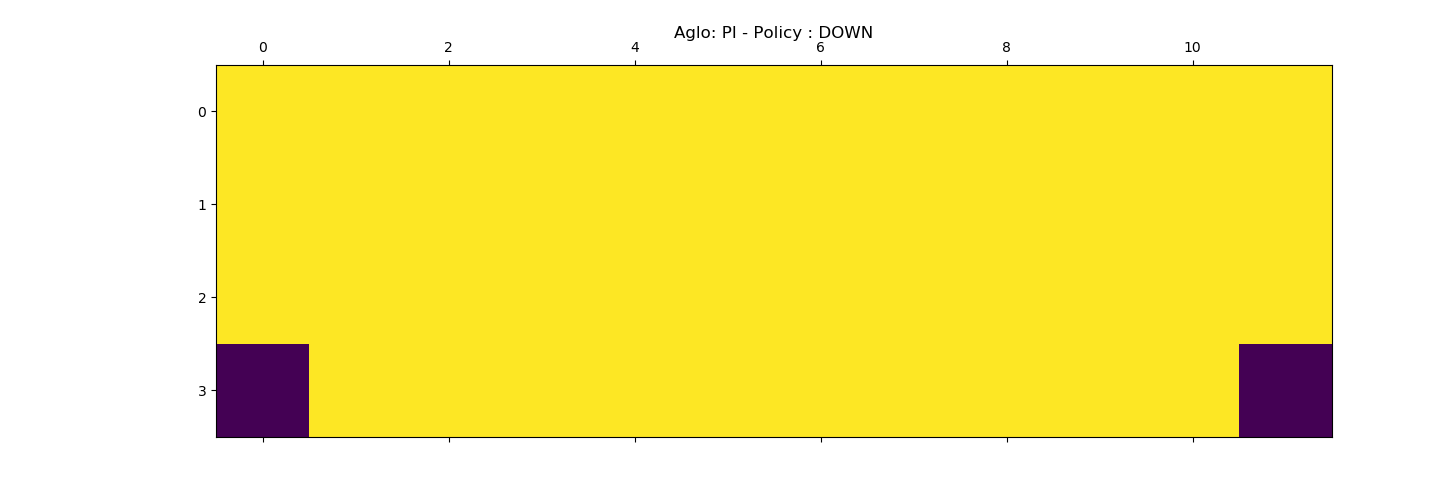
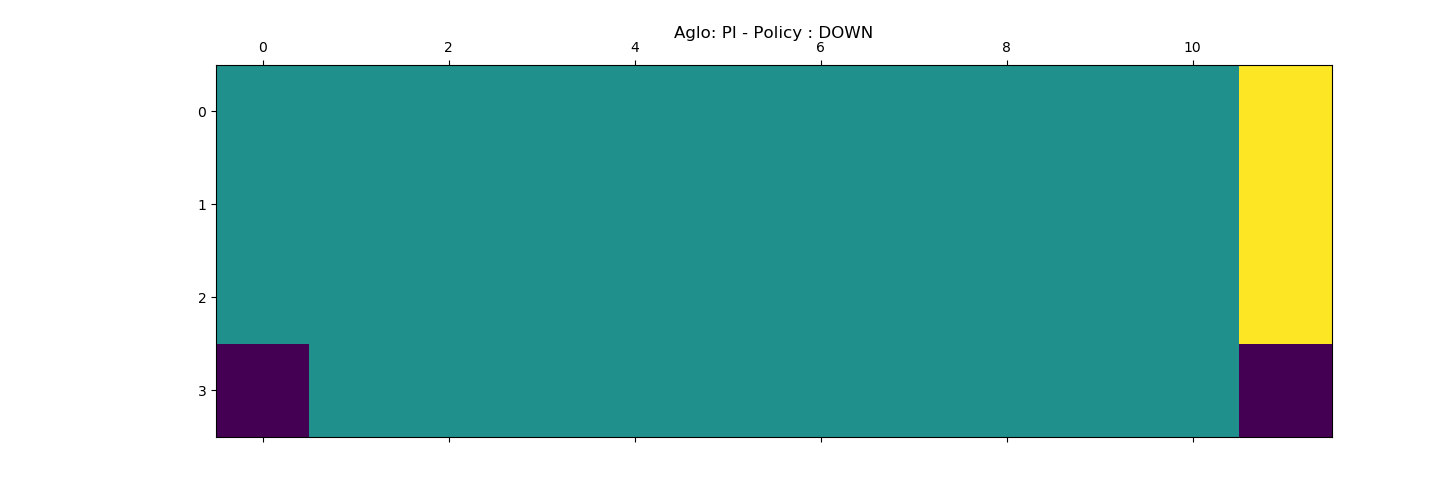
rl

diff --git a/ReinforcementLearning/rl-aic-2019-master/session_1/agents - Copie.py b/ReinforcementLearning/rl-aic-2019-master/session_1/agents - Copie.py
@@ -110,19 +110,11 @@ class ValueIteration:
         max_iterations = 10000
         eps = 1e-30
         for i in range(max_iterations):
-            prev_v = np.copy(V)
+            prev_v = (V)
             for s in range(self.mdp.env.nS):
-                Q_sa = np.zeros(self.mdp.env.nA)
-                for a in range(self.mdp.env.nA):
-                    for next_sr in self.mdp.env.P[s][a]:
-                        p, s_prime, r, last_state = next_sr
-                        if (last_state == False):
-                            Q_sa[a] += (p * (r + self.gamma * V[s_prime]))
-                        else : 
-                            Q_sa[a] += (p*r)
-                V[s] = np.max(Q_sa)
-            if (np.sum(np.fabs(prev_v - V)) <= eps):
-                print("FINISHED")
+                q_sa = [sum([p*(r + self.gamma * prev_v[s_prime]) ) for a in range(self.mdp.env.nA)] 
+                V[s] = max(q_sa)
+            if (np.sum(np.abs(prev_v - V)) <= eps):
                 return V
         return V
 
@@ -135,11 +127,8 @@ class ValueIteration:
             Q_sa = np.zeros(self.mdp.env.nA)
             for a in range(self.mdp.env.nA):
                 for next_sr in self.mdp.env.P[s][a]:
-                    p, s_prime, r, last_state = next_sr
-                    if (last_state == False):
-                        Q_sa[a] += (p * (r + self.gamma * V[s_prime]))
-                    else : 
-                        Q_sa[a] += (p*r)
+                    p, s_prime, r, _ = next_sr
+                    Q_sa[a] += (p * (r + self.gamma * V[s_prime]))
             policy[s][np.argmax(Q_sa)] = 1
         return(policy)
 
@@ -177,18 +166,13 @@ class PolicyIteration:
         max_iterations = 10000
         eps = 1e-30
         for i in range(max_iterations):
-            prev_v = np.copy(V)
+            prev_v = (V)
             for s in range(self.mdp.env.nS):
-                Q_sa = np.zeros(self.mdp.env.nA)
+                q_sa = np.zeros(self.mdp.env.nA)
                 for a in range(self.mdp.env.nA):
-                    for next_sr in self.mdp.env.P[s][a]:
-                        p, s_prime, r, last_state = next_sr
-                        if (last_state == False):
-                            Q_sa[a] += (p * (r + self.gamma * V[s_prime]))
-                        else : 
-                            Q_sa[a] += (p*r)
-                V[s] = np.max(Q_sa)
-            if (np.sum(np.fabs(prev_v - V)) <= eps):
+                    q_sa[a] = sum([p * (r + self.gamma * V[s_]) for p, s_, r, _ in  self.mdp.env.P[s][a]])
+                policy[s] = np.argmax(q_sa)
+            if (np.sum(np.abs(prev_v - V)) <= eps):
                 return np.array(V)
         return np.array(V)
    
@@ -199,15 +183,10 @@ class PolicyIteration:
         """
         policy = np.zeros([self.mdp.env.nS, self.mdp.env.nA])
         for s in range(self.mdp.env.nS):
-            Q_sa = np.zeros(self.mdp.env.nA)
+            q_sa = np.zeros(self.mdp.env.nA)
             for a in range(self.mdp.env.nA):
-                for next_sr in self.mdp.env.P[s][a]:
-                        p, s_prime, r, last_state = next_sr
-                        if (last_state == False):
-                            Q_sa[a] += (p * (r + self.gamma * V[s_prime]))
-                        else : 
-                            Q_sa[a] += (p*r)
-            policy[s][np.argmax(Q_sa)] = 1
+                q_sa[a] = sum([p * (r + self.gamma * V[s_]) for p, s_, r, _ in  self.mdp.env.P[s][a]])
+            policy[s][np.argmax(q_sa)] = 1
 
         return policy
 
@@ -223,6 +202,7 @@ class PolicyIteration:
         V = np.zeros(self.mdp.env.nS)
 
         max_iterations = 2000
+        gamma = 1.0
         for i in range(max_iterations):
             old_policy_v = self.policy_evaluation(policy)
             new_policy = self.policy_improvement(old_policy_v , policy)
